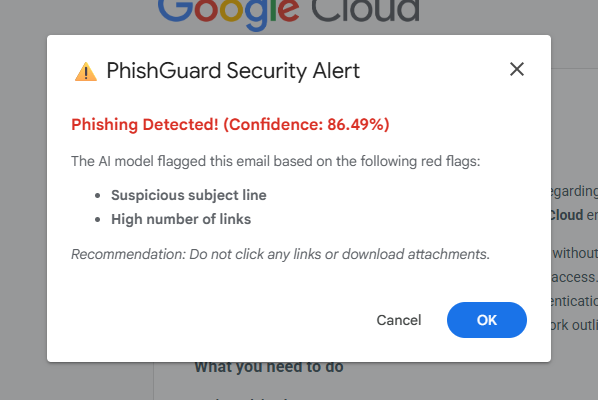
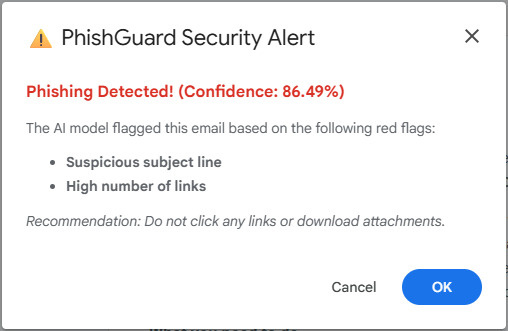
Link PhishGuard repo, remove placeholder links, crop screenshots

diff --git a/index.html b/index.html
@@ -442,15 +442,15 @@
 
           <div class="shots">
             <figure class="shot">
-              <img src="assets/phishguard-scan-button.png" width="969" height="159" loading="lazy" alt="Gmail toolbar with a blue Scan for Phishing button added by the PhishGuard extension">
+              <img src="assets/phishguard-scan-button.png" width="680" height="49" loading="lazy" alt="Gmail toolbar with a blue Scan for Phishing button added by the PhishGuard extension">
               <figcaption>The scan button the extension adds to Gmail.</figcaption>
             </figure>
             <figure class="shot">
-              <img src="assets/phishguard-alert.png" width="598" height="400" loading="lazy" alt="PhishGuard Security Alert modal reporting phishing detected with 86.49% confidence and listing two red flags: suspicious subject line and high number of links">
+              <img src="assets/phishguard-alert.png" width="508" height="331" loading="lazy" alt="PhishGuard Security Alert modal reporting phishing detected with 86.49% confidence and listing two red flags: suspicious subject line and high number of links">
               <figcaption>A flagged email, with the top reasons in plain language.</figcaption>
             </figure>
             <figure class="shot">
-              <img src="assets/phishguard-safe.png" width="591" height="279" loading="lazy" alt="PhishGuard Scan Complete modal reporting that the email appears safe with a risk score of 52.06%">
+              <img src="assets/phishguard-safe.png" width="507" height="199" loading="lazy" alt="PhishGuard Scan Complete modal reporting that the email appears safe with a risk score of 52.06%">
               <figcaption>A risk score under the 0.85 threshold is reported as safe.</figcaption>
             </figure>
             <!-- To add a demo GIF or video later, copy one of the <figure class="shot"> blocks above and point it at your file. -->
@@ -461,7 +461,7 @@
           <ul class="tags" aria-label="Technologies">
             <li>Python</li><li>CatBoost</li><li>SHAP</li><li>pandas</li><li>FastAPI</li><li>Render</li><li>JavaScript</li><li>Chrome Manifest V3</li><li>gmail.js</li>
           </ul>
-          <a class="btn" href="#TODO-github-phishguard">
+          <a class="btn" href="https://github.com/cfmercado/phishguard" target="_blank" rel="noopener">
             <svg viewBox="0 0 24 24" fill="currentColor" aria-hidden="true"><path d="M12 .5a11.5 11.5 0 0 0-3.64 22.41c.58.1.79-.25.79-.56v-2c-3.2.7-3.88-1.37-3.88-1.37-.52-1.33-1.28-1.69-1.28-1.69-1.05-.71.08-.7.08-.7 1.16.08 1.77 1.19 1.77 1.19 1.03 1.77 2.7 1.26 3.36.96.1-.75.4-1.26.73-1.55-2.56-.29-5.25-1.28-5.25-5.69 0-1.26.45-2.29 1.19-3.09-.12-.29-.52-1.47.11-3.05 0 0 .97-.31 3.17 1.18a11 11 0 0 1 5.78 0c2.2-1.49 3.17-1.18 3.17-1.18.63 1.58.23 2.76.11 3.05.74.8 1.19 1.83 1.19 3.09 0 4.42-2.69 5.39-5.26 5.68.41.36.78 1.06.78 2.14v3.17c0 .31.21.67.8.56A11.5 11.5 0 0 0 12 .5z"/></svg>
             Source code
           </a>
@@ -483,7 +483,6 @@
           </div>
           <div class="card-foot">
             <ul class="tags" aria-label="Technologies"><li>Next.js / React</li><li>TypeScript</li><li>Node.js</li><li>Express</li><li>MariaDB</li><li>Docker</li></ul>
-            <a class="text-link" href="#TODO-github-icspaces">Source code <svg viewBox="0 0 24 24" fill="none" stroke="currentColor" stroke-width="2" stroke-linecap="round" stroke-linejoin="round" aria-hidden="true"><path d="M7 17 17 7M8 7h9v9"/></svg><span class="sr-only"> for ICSpaces</span></a>
           </div>
         </article>
 
@@ -500,7 +499,6 @@
           </div>
           <div class="card-foot">
             <ul class="tags" aria-label="Technologies"><li>Python</li><li>MariaDB</li></ul>
-            <a class="text-link" href="#TODO-github-wisersplit">Source code <svg viewBox="0 0 24 24" fill="none" stroke="currentColor" stroke-width="2" stroke-linecap="round" stroke-linejoin="round" aria-hidden="true"><path d="M7 17 17 7M8 7h9v9"/></svg><span class="sr-only"> for WiserSplit</span></a>
           </div>
         </article>
 
@@ -517,7 +515,6 @@
           </div>
           <div class="card-foot">
             <ul class="tags" aria-label="Technologies"><li>Node.js</li><li>Express</li></ul>
-            <a class="text-link" href="#TODO-github-clearance">Source code <svg viewBox="0 0 24 24" fill="none" stroke="currentColor" stroke-width="2" stroke-linecap="round" stroke-linejoin="round" aria-hidden="true"><path d="M7 17 17 7M8 7h9v9"/></svg><span class="sr-only"> for Clearance Approval System</span></a>
           </div>
         </article>
       </div>
